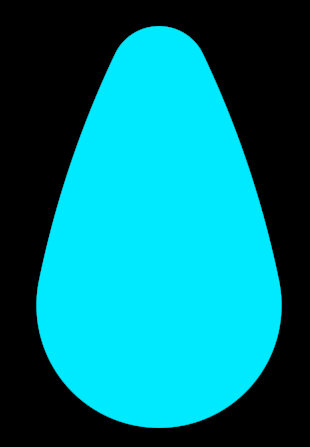
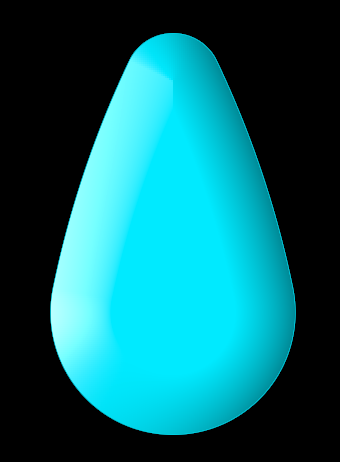
docs: update README to introduce lighting effects

diff --git a/README.md b/README.md
@@ -86,7 +86,7 @@ and
     </tr>
 </table>
 <table>
-    <caption>Shapes added in updates</caption>
+    <caption>Shapes added in updates & Lighting effect</caption>
     <tr>
         <td><img src="Media/demo.20.png" height="256"><img></td>
         <td><img src="Media/demo.21.png" height="256"><img></td>
